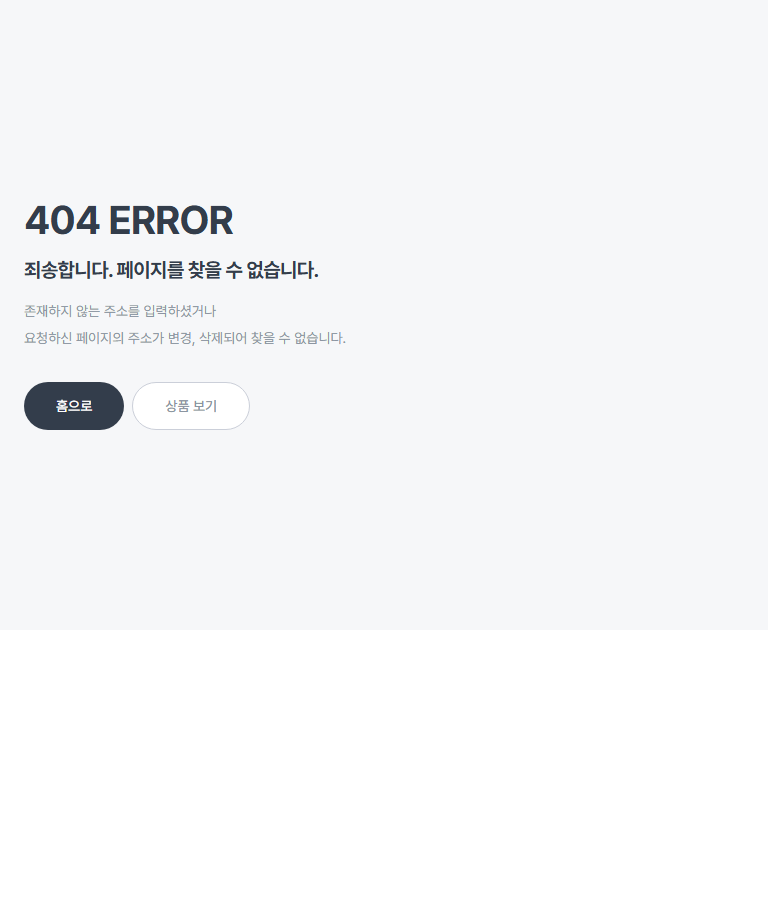
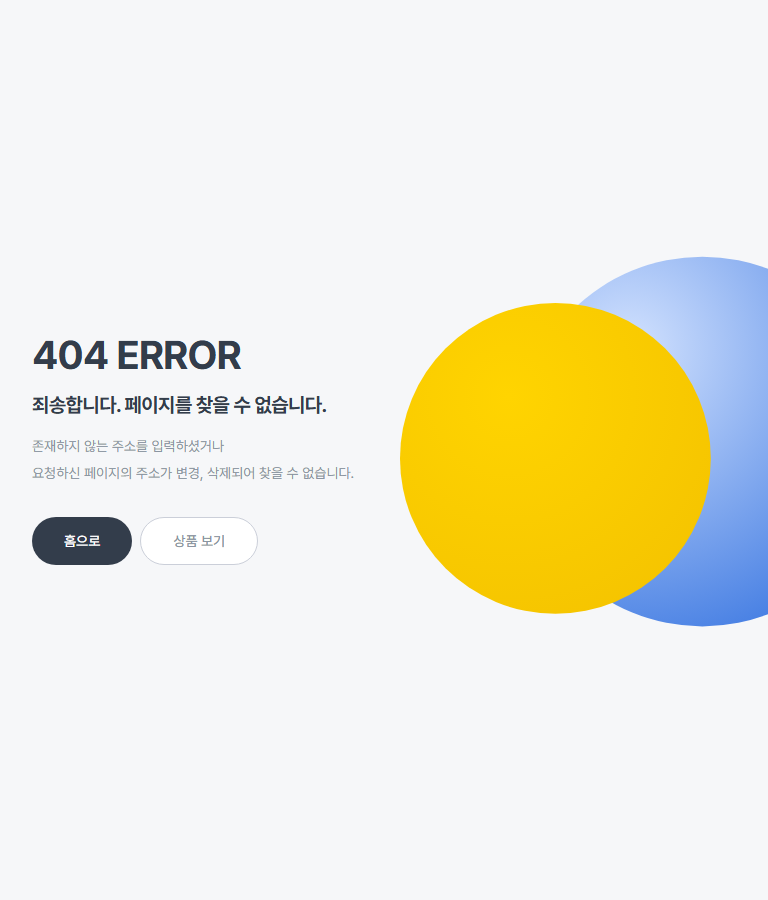
fix: 404·오류 화면을 화면 꽉 차게 · 좁은 너비 정리
높이를 70vh 만 쓰고 있었다. 헤더도 푸터도 없이 홀로 서는 화면이라 아래가 비면
무엇을 더 기다려야 하는 것처럼 보인다. `vh` 가 아니라 `dvh` 를 쓰는 이유는 모바일
브라우저의 주소창이 접혔다 펴지며 높이가 바뀌기 때문이다 — `vh` 로 두면 첫 화면에서
단추가 주소창에 가린다.

도형은 화면 기준으로 띄워 두었더니 너비가 1024~1280 으로 좁아질 때 글 위를 덮었다.
두 칸 격자의 오른쪽 칸에 넣어 겹칠 자리를 없애고, 칸보다 130% 넓게 그려 오른쪽으로
넘치게 둔다 — 칸에 딱 맞추면 원 두 개를 나란히 둔 그림이 되어 화면이 오른쪽으로
이어지는 느낌이 사라진다.

태블릿(768)에서는 도형이 없어 오른쪽 절반이 이유 없이 비어 있었다. 한 칸으로 접히는
좁은 화면에서만 빼고, 두 칸이 되는 순간부터 세운다. 단추는 좁은 화면에서 세로로 쌓는다.

diff --git a/packages/ui/src/StatusScreen.tsx b/packages/ui/src/StatusScreen.tsx
@@ -49,6 +49,12 @@ const CIRCLE_TONE: Record<StatusTone, { front: [string, string]; back: [string, 
 /**
  * 겹친 두 원. 앞의 원은 결에 따라 색이 달라지고, 뒤의 원은 화면 밖으로 걸쳐 잘린다 —
  * 잘려 있어야 화면이 오른쪽으로 이어지는 느낌이 나고, 원 두 개를 나란히 둔 것처럼 보이지 않는다.
+ *
+ * 자리는 **오른쪽 칸 안**이다. 예전에는 화면 기준으로 띄워 두었는데, 너비가 1024~1280 으로
+ * 좁아지면 도형이 글 위를 덮었다 — 칸 안에 두면 글과 겹칠 자리가 애초에 없다.
+ *
+ * 대신 칸보다 **넓게**(130%) 그려 오른쪽으로 넘치게 둔다. 칸에 딱 맞추면 도형이 통째로 보여
+ * 원 두 개를 나란히 둔 그림이 되고, 화면이 오른쪽으로 이어지는 느낌이 사라진다.
  */
 function StatusArt({ tone }: { tone: StatusTone }) {
   const { front, back } = CIRCLE_TONE[tone];
@@ -57,7 +63,7 @@ function StatusArt({ tone }: { tone: StatusTone }) {
     <svg
       viewBox="0 0 520 520"
       aria-hidden="true"
-      className="pointer-events-none absolute -right-40 top-1/2 hidden h-[130%] -translate-y-1/2 lg:block"
+      className="pointer-events-none absolute left-0 top-1/2 w-[130%] max-w-none -translate-y-1/2"
     >
       <defs>
         <radialGradient id={`status-front-${tone}`} cx="35%" cy="30%" r="80%">
@@ -116,11 +122,11 @@ export function StatusScreen({
 }: StatusScreenProps) {
   if (layout === 'center') {
     return (
-      <section className="mx-auto flex w-full max-w-140 flex-col items-center gap-6 py-16 text-center">
+      <section className="mx-auto flex w-full max-w-140 flex-col items-center gap-6 py-12 text-center sm:py-16">
         <ResultMark tone={tone} />
 
         <div className="flex flex-col items-center gap-3">
-          <h1 className="text-2xl font-bold tracking-tight">{title}</h1>
+          <h1 className="text-xl font-bold tracking-tight sm:text-2xl">{title}</h1>
           <div className="flex flex-col gap-1">
             {description.map((line) => (
               <p key={line} className="text-sm leading-relaxed text-ink-muted">
@@ -133,12 +139,12 @@ export function StatusScreen({
         {children}
 
         {/* 단추는 가운데에 나란히 — 왼쪽에 붙이면 가운데로 모아 둔 글과 축이 어긋난다. */}
-        <div className="mt-2 flex flex-wrap justify-center gap-2">
+        <div className="mt-2 flex w-full flex-col justify-center gap-2 sm:w-auto sm:flex-row sm:flex-wrap">
           {actions.map((action) => (
             <a
               key={action.href + action.label}
               href={action.href}
-              className={`flex h-12 shrink-0 items-center whitespace-nowrap rounded-lg px-8 text-sm font-medium ${
+              className={`flex h-12 shrink-0 items-center justify-center whitespace-nowrap rounded-lg px-8 text-sm font-medium ${
                 action.primary
                   ? 'bg-ink text-white'
                   : 'border border-border-strong bg-canvas text-ink-muted hover:text-ink'
@@ -152,14 +158,23 @@ export function StatusScreen({
     );
   }
 
-  return (
-    <section className="relative flex min-h-[70vh] w-full items-center overflow-hidden bg-surface">
-      <StatusArt tone={tone} />
+  /*
+    404·오류는 **화면을 통째로 쓴다**(`min-h-dvh`). 헤더도 푸터도 없이 홀로 서는 화면이라
+    높이를 덜 쓰면 아래가 비어 무엇을 더 기다려야 하는 것처럼 보인다.
 
-      <div className="relative mx-auto flex w-full max-w-350 flex-col gap-6 px-6 py-16 lg:px-16">
-        <div className="flex flex-col gap-4 lg:max-w-140">
-          {code && <p className="text-[40px] font-bold leading-none tracking-tight lg:text-[52px]">{code}</p>}
-          <h1 className={`font-bold tracking-tight ${code ? 'text-xl' : 'text-[32px] leading-tight'}`}>{title}</h1>
+    `vh` 가 아니라 `dvh` 인 이유: 모바일 브라우저는 주소창이 접혔다 펴지며 높이가 바뀌는데,
+    `vh` 는 펼쳐진 높이로 고정이라 첫 화면에서 단추가 주소창에 가려진다.
+  */
+  return (
+    <section className="relative flex min-h-dvh w-full items-center overflow-hidden bg-surface">
+      <div className="mx-auto grid w-full max-w-350 grid-cols-1 items-center gap-8 px-6 py-16 sm:px-8 md:grid-cols-2 lg:gap-10 lg:px-16">
+        <div className="flex min-w-0 flex-col gap-4">
+          {code && (
+            <p className="text-[32px] font-bold leading-none tracking-tight sm:text-[40px] lg:text-[52px]">{code}</p>
+          )}
+          <h1 className={`font-bold tracking-tight ${code ? 'text-lg sm:text-xl' : 'text-2xl leading-tight sm:text-[32px]'}`}>
+            {title}
+          </h1>
 
           <div className="flex flex-col gap-1">
             {description.map((line) => (
@@ -171,12 +186,13 @@ export function StatusScreen({
 
           {children}
 
-          <div className="mt-4 flex flex-wrap gap-2">
+          {/* 좁은 화면에서는 단추가 한 줄에 다 들어가지 않으므로 세로로 쌓고 너비를 채운다. */}
+          <div className="mt-4 flex flex-col gap-2 sm:flex-row sm:flex-wrap">
             {actions.map((action) => (
               <a
                 key={action.href + action.label}
                 href={action.href}
-                className={`flex h-12 shrink-0 items-center whitespace-nowrap rounded-full px-8 text-sm font-medium ${
+                className={`flex h-12 shrink-0 items-center justify-center whitespace-nowrap rounded-full px-8 text-sm font-medium sm:justify-start ${
                   action.primary
                     ? 'bg-ink text-white'
                     : 'border border-border-strong bg-canvas text-ink-muted hover:text-ink'
@@ -186,6 +202,14 @@ export function StatusScreen({
               </a>
             ))}
           </div>
+        </div>
+
+        {/*
+          도형은 뜻을 담지 않는 무게추라 한 칸으로 접히는 좁은 화면에서는 통째로 뺀다.
+          두 칸이 되는 순간(md)부터 세운다 — 칸을 비워 두면 화면 절반이 이유 없이 빈다.
+        */}
+        <div aria-hidden="true" className="relative hidden h-full min-h-100 md:block">
+          <StatusArt tone={tone} />
         </div>
       </div>
     </section>
